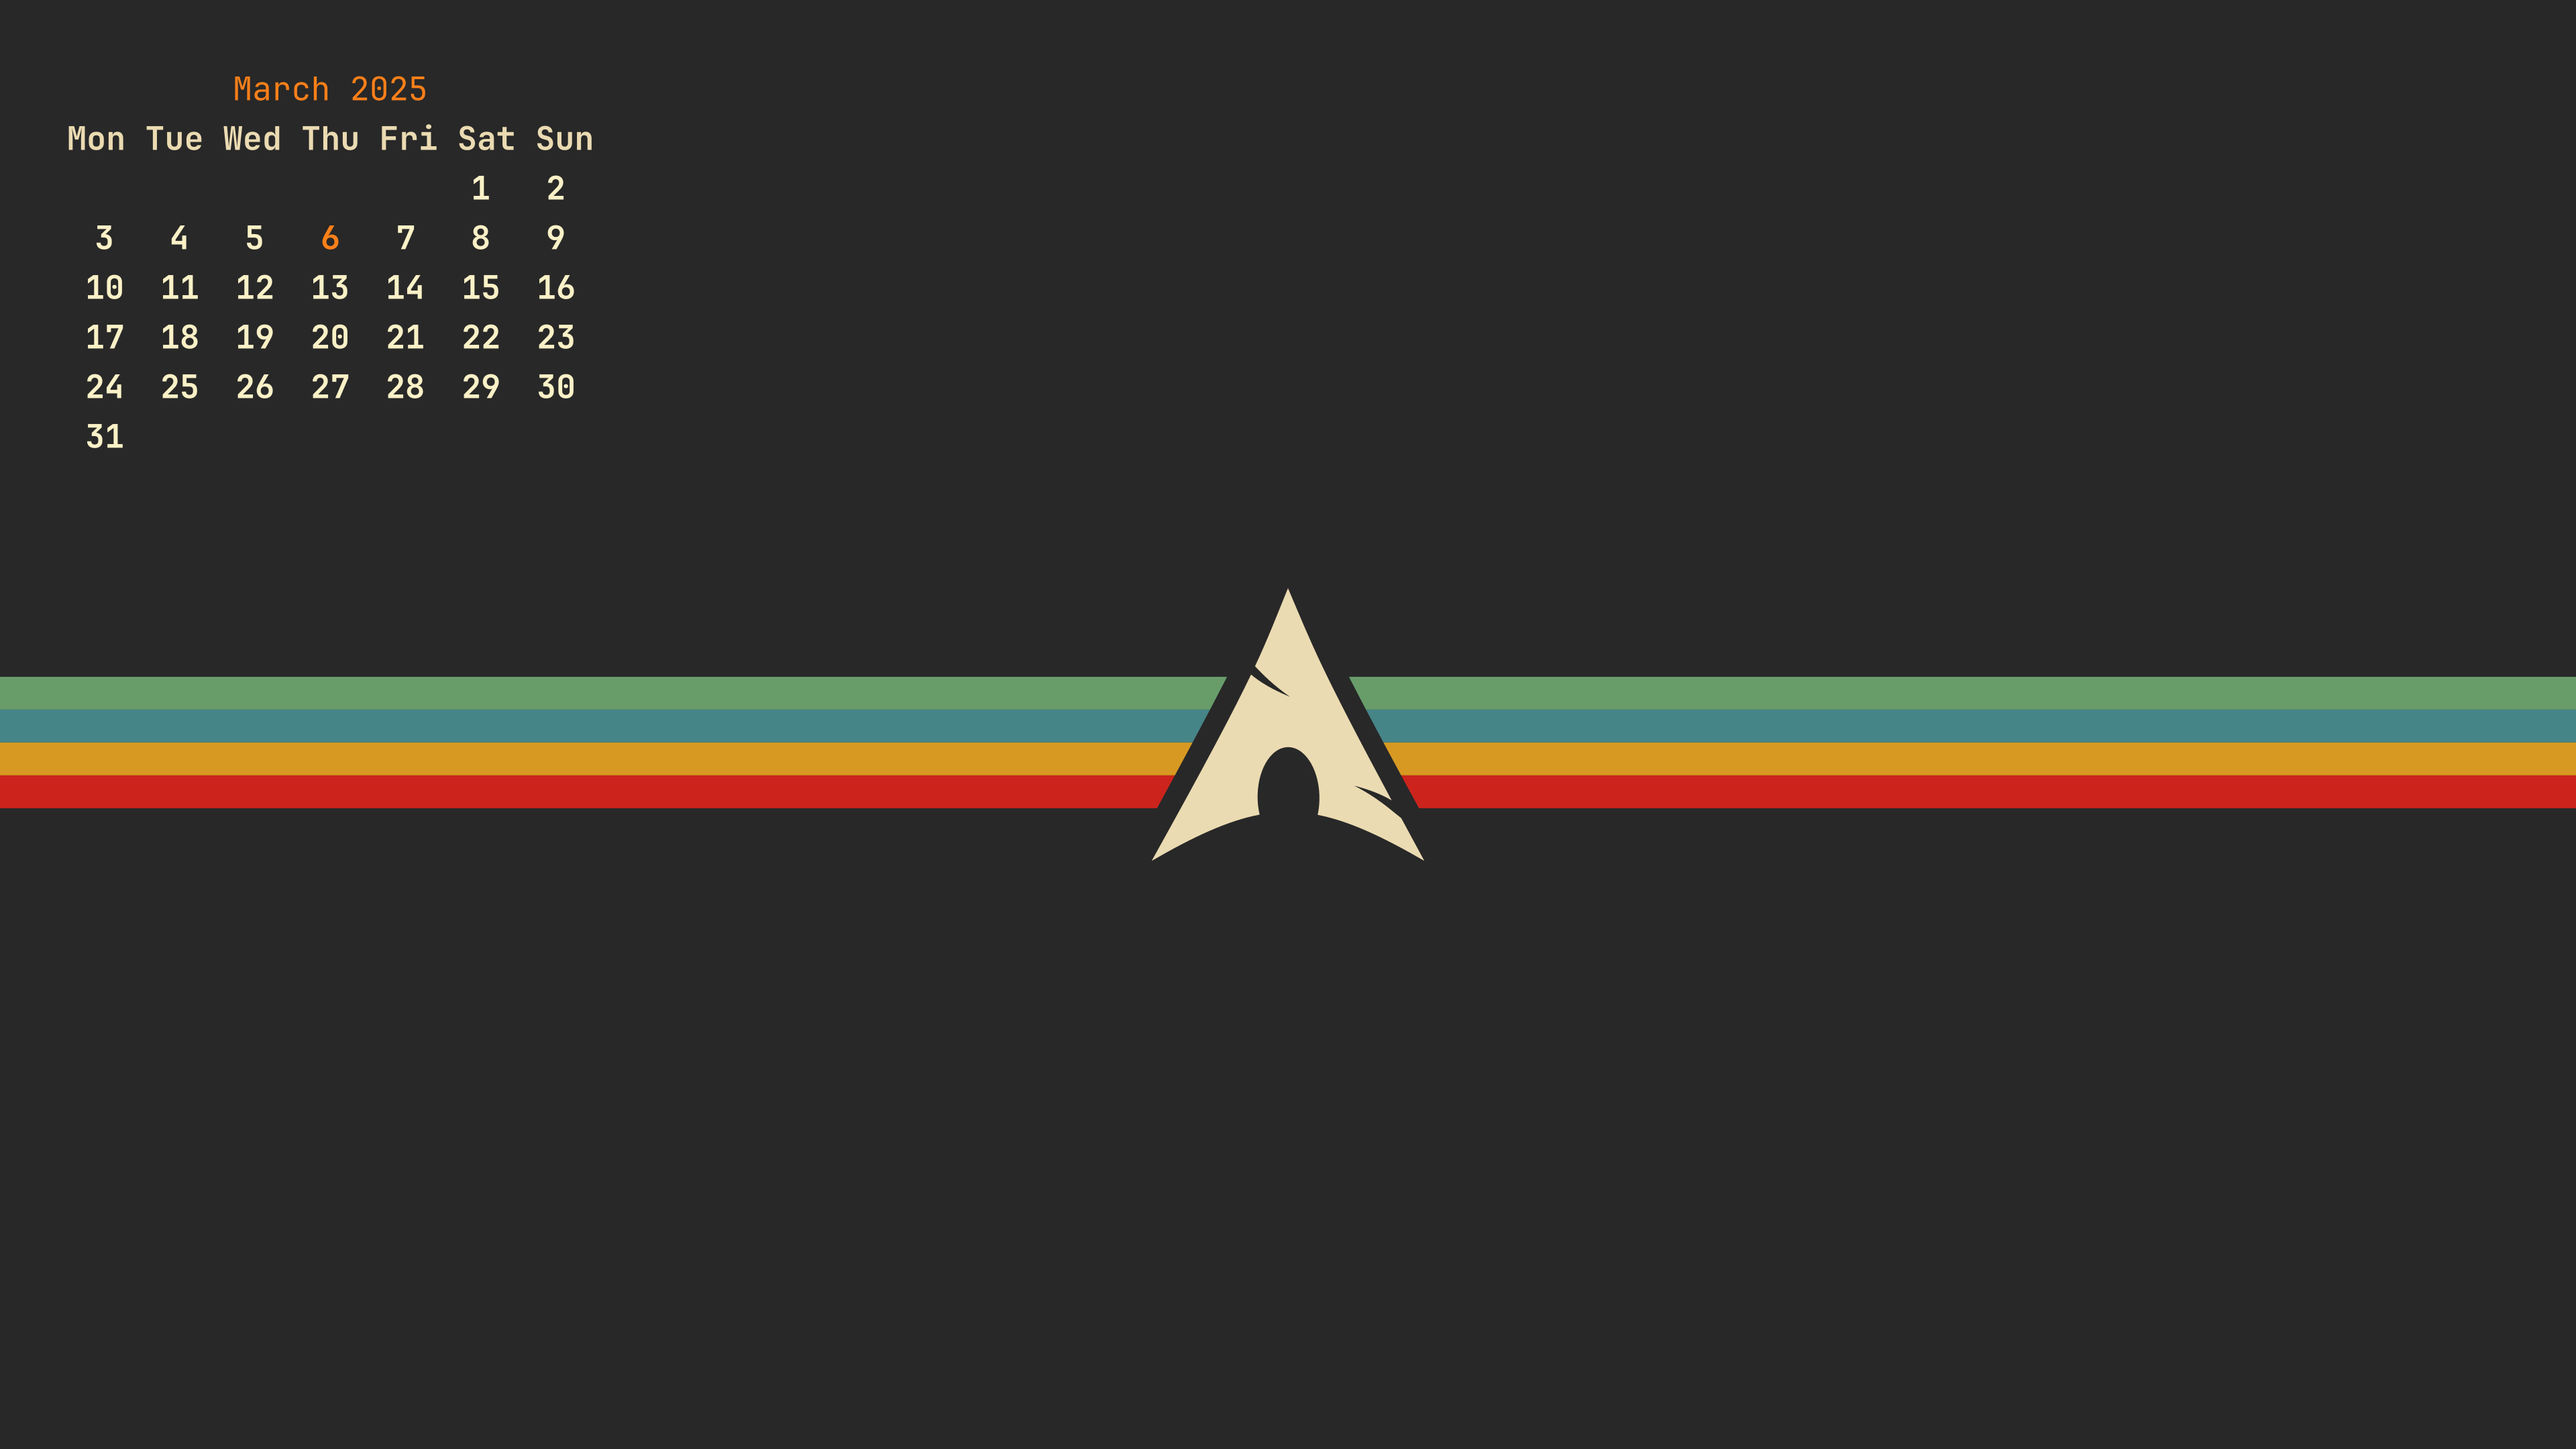
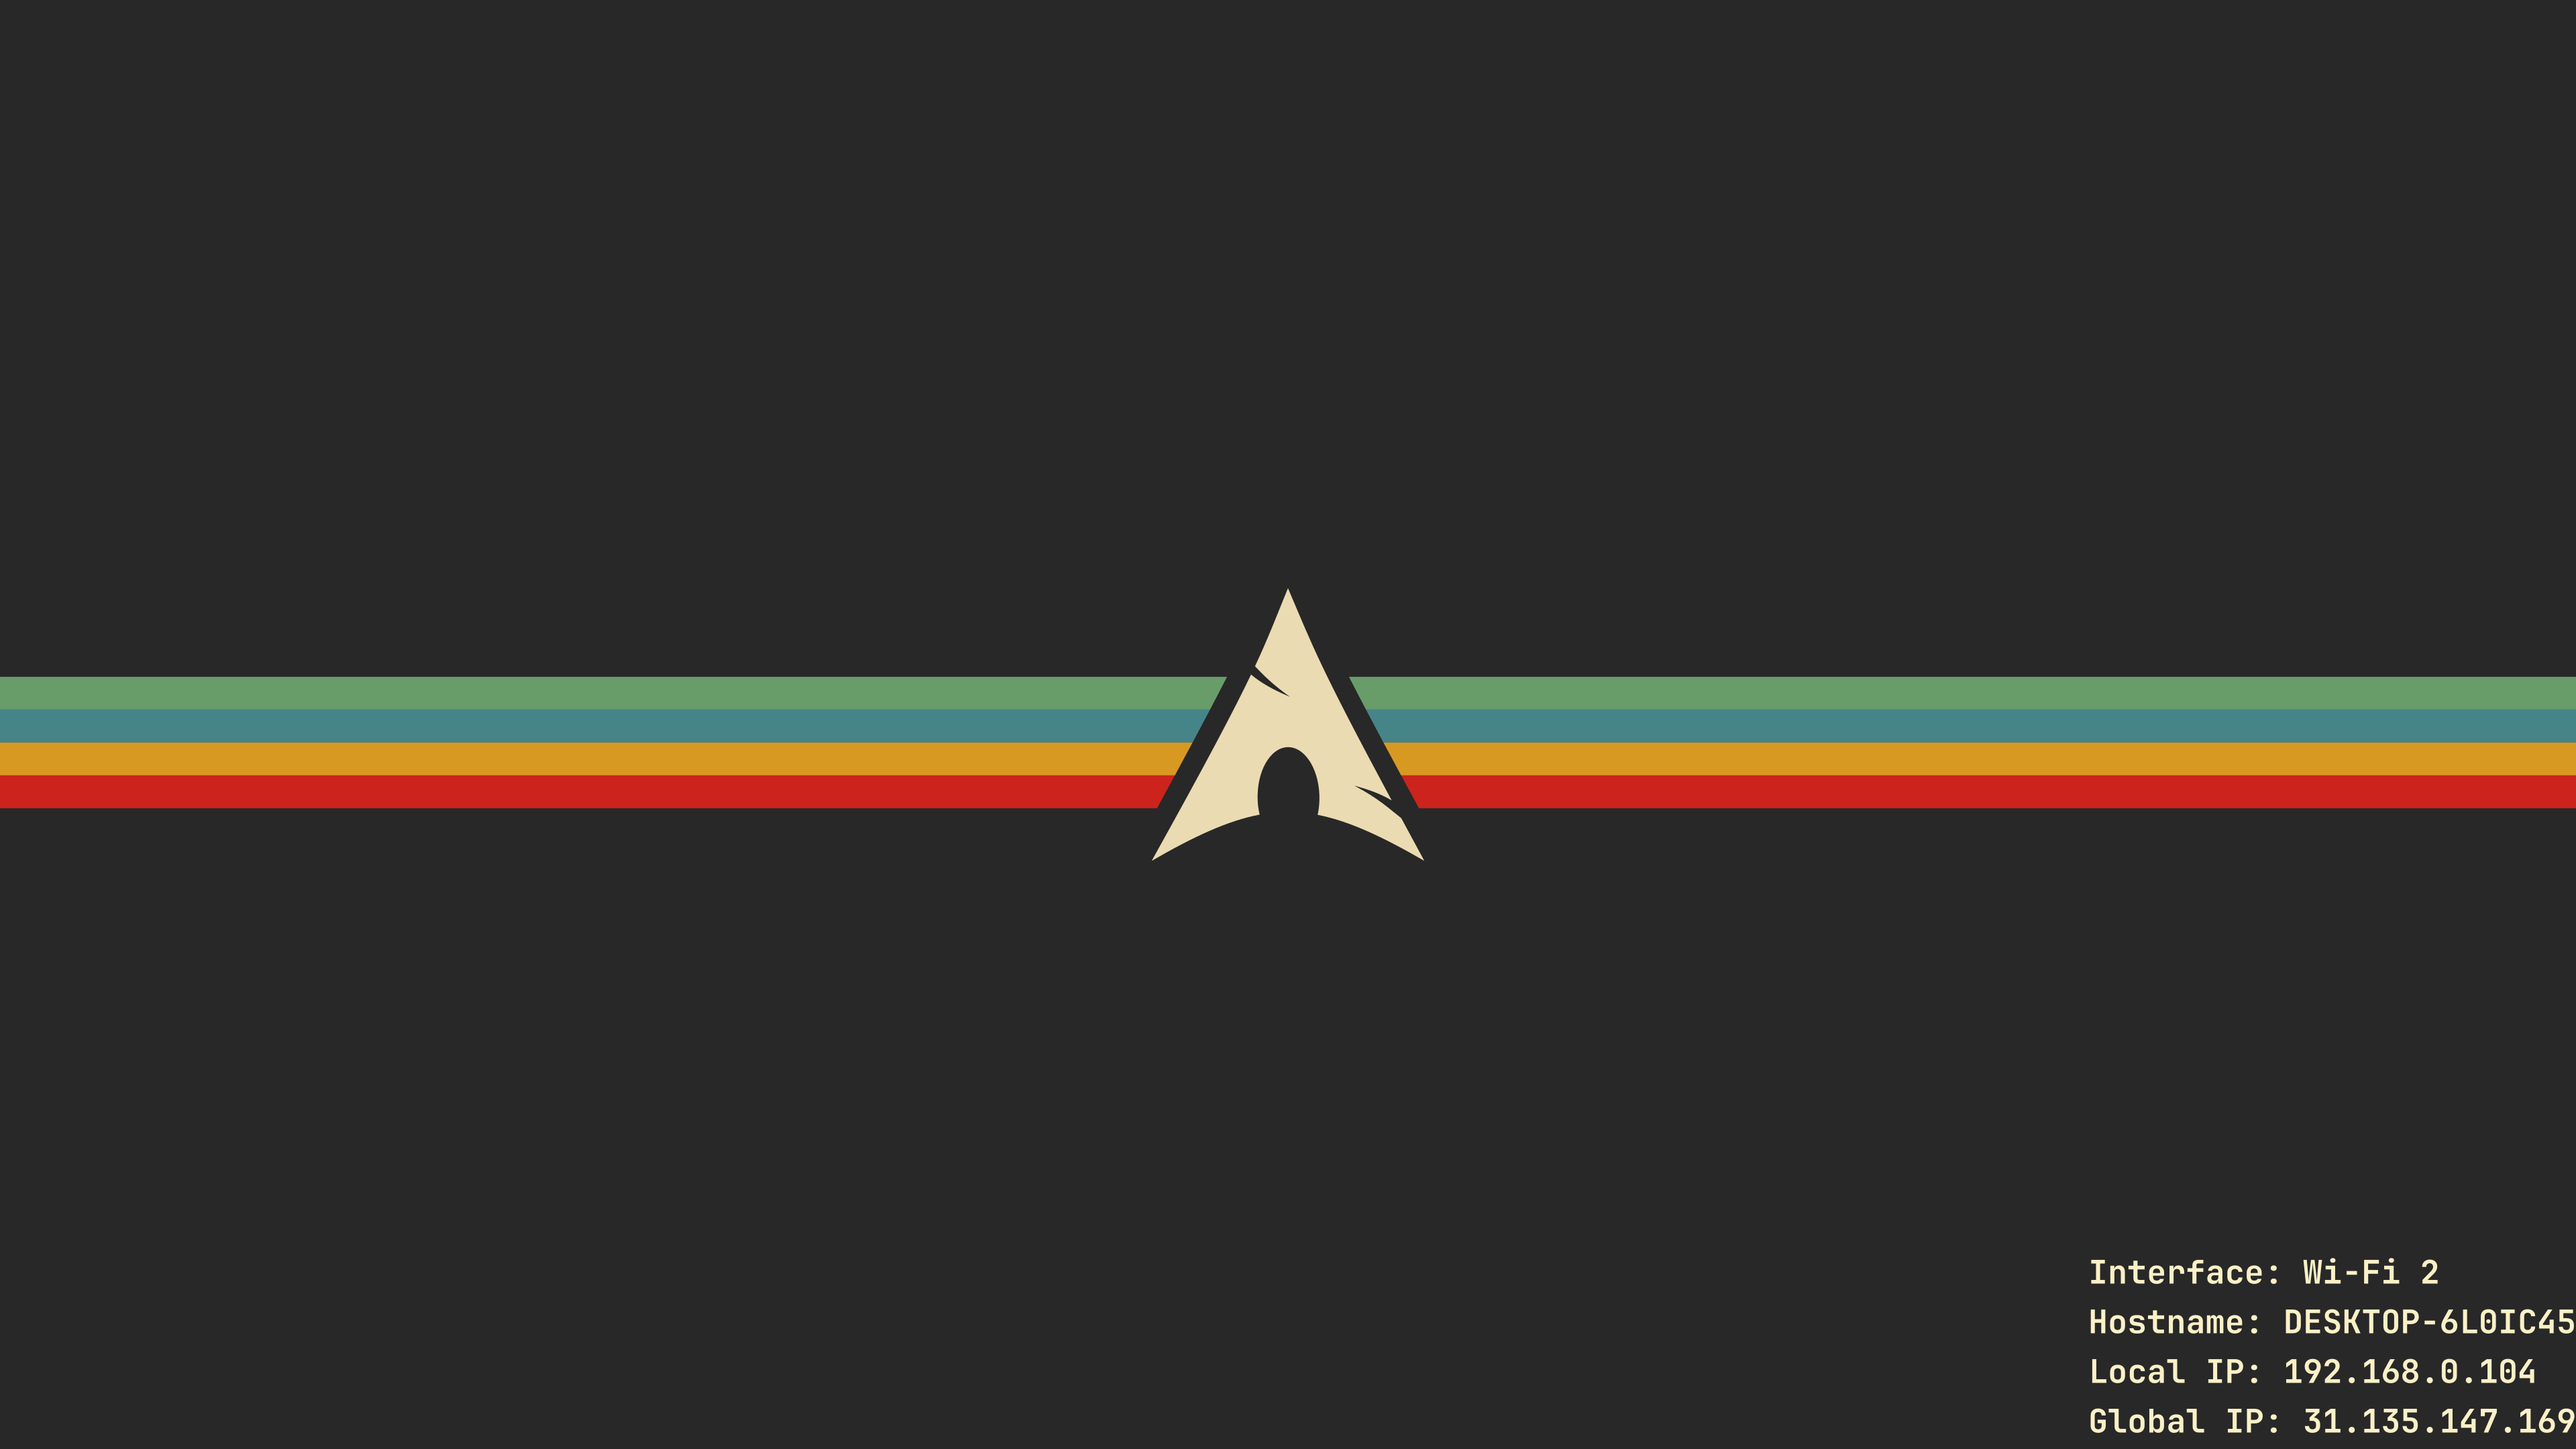
net_working

Changed region(s): [[0.8125, 0.8685, 1.0, 0.9926], [0.0312, 0.1861, 0.2188, 0.3102], [0.0312, 0.062, 0.2188, 0.1241]]

diff --git a/src/lib.rs b/src/lib.rs
@@ -4,6 +4,7 @@ use ab_glyph::{Font, FontRef, PxScale, ScaleFont};
 use chrono::{Datelike, Local};
 use image::{open, Rgb};
 use imageproc::drawing::draw_text_mut;
+use network_interface::{NetworkInterface, NetworkInterfaceConfig};
 use theme::Theme;
 use time::util::days_in_month;
 use time::OffsetDateTime;
@@ -76,8 +77,8 @@ pub fn draw_calendar(mut conf: Config) {
         bold_height + (regular_height * (numbers_lines + 1.0)) + 10.0 * (numbers_lines + 1.0);
 
     if conf.center {
-        conf.start_x = (img_width as f32 - week_width) / 2.0;
-        conf.start_y = (img_height as f32 - widget_height) / 2.0;
+        conf.start_x = get_coord_centered(img_width as f32, week_width, 0.0);
+        conf.start_y = get_coord_centered(img_height as f32, widget_height, 0.0);
     }
     if conf.right {
         conf.start_x = img_width as f32 - week_width - conf.start_x;
@@ -87,7 +88,7 @@ pub fn draw_calendar(mut conf: Config) {
     }
 
     //calculate center related to days of week string
-    offset_x = get_x_centered(week_width, title_width, conf.start_x);
+    offset_x = get_coord_centered(week_width, title_width, conf.start_x);
 
     //draw title
     draw_text_mut(
@@ -132,7 +133,7 @@ pub fn draw_calendar(mut conf: Config) {
                     color = conf.theme.color_text;
                 }
                 let num_width = text_width(&font_regular, scale, &day.to_string());
-                offset_x = get_x_centered(cell_width, num_width, offset_x);
+                offset_x = get_coord_centered(cell_width, num_width, offset_x);
 
                 draw_text_mut(
                     &mut img,
@@ -165,7 +166,7 @@ pub fn draw_calendar(mut conf: Config) {
             } else {
                 color = conf.theme.color_text;
             }
-            offset_x = get_x_centered(cell_width, num_width, offset_x);
+            offset_x = get_coord_centered(cell_width, num_width, offset_x);
             draw_text_mut(
                 &mut img,
                 Rgb(color),
@@ -180,10 +181,98 @@ pub fn draw_calendar(mut conf: Config) {
         if days_iter.is_empty() {
             break;
         }
-        offset_y = offset_y + conf.font_size + 10.0;
+        offset_y += conf.font_size + 10.0;
         offset_x = conf.start_x;
     }
 
+    if conf.file_out.is_empty() {
+        img.save(conf.file_in).expect("Error while saving file");
+    } else {
+        let path = Path::new(conf.file_in).parent().unwrap().display();
+        img.save(format!("{}\\{}", path, conf.file_out))
+            .expect("Error while saving file");
+    }
+}
+
+pub fn draw_inet(mut conf: Config, iface_name: String) {
+    //open image and font
+    let mut img = open(conf.file_in).expect("Not an image").into_rgb8();
+    let font_regular = FontRef::try_from_slice(FONT_BYTES_REGULAR as &[u8]).expect("Invalid font");
+    let font_bold = FontRef::try_from_slice(FONT_BYTES_BOLD as &[u8]).expect("Invalid font");
+
+    //normalize font
+    let (img_width, img_height) = img.dimensions();
+    let scale_factor = (img_width * img_height) / (1920 * 1080);
+
+    conf.font_size *= (scale_factor as f32).sqrt();
+    let scale = PxScale::from(conf.font_size);
+
+    //info for widget
+    let hostname_binding = hostname::get().unwrap_or("".into());
+    let hostname = hostname_binding.to_str().unwrap();
+    //let hostname = "CHLEN";
+    //let local_ip = local_ip().unwrap().to_string();
+
+    let interface_binding = NetworkInterface::show()
+        .unwrap()
+        .into_iter()
+        .find(|iface| iface.name == iface_name)
+        .unwrap();
+    let interface_name = interface_binding.name.clone();
+    let local_ip = interface_binding.addr[1].ip().to_string();
+
+    let global_ip;
+    match ureq::get("https://api64.ipify.org").call() {
+        Ok(mut res) => global_ip = res.body_mut().read_to_string().unwrap(),
+        Err(_) => global_ip = "".to_string(),
+    }
+
+    let hostname_text = format!("Hostname: {}", hostname);
+    let local_ip_text = format!("Local IP: {}", local_ip);
+    let interface_name_text = format!("Interface: {}", interface_name);
+    let global_ip_text = format!("Global IP: {}", global_ip);
+    let texts = [
+        interface_name_text,
+        hostname_text,
+        local_ip_text,
+        global_ip_text,
+    ];
+
+    //positioning
+    let widget_width = texts
+        .iter()
+        .map(|line| text_width(&font_regular, scale, line) as u32)
+        .max()
+        .unwrap() as f32;
+    let regular_height = text_height(&font_regular, scale);
+    let widget_height = regular_height * 4.0 + 10.0 * 4.0;
+
+    if conf.center {
+        conf.start_x = get_coord_centered(img_width as f32, widget_width, 0.0);
+        conf.start_y = get_coord_centered(img_height as f32, widget_height, 0.0);
+    }
+    if conf.bottom {
+        conf.start_y = img_height as f32 - widget_height - conf.start_y;
+    }
+    if conf.right {
+        conf.start_x = img_width as f32 - widget_width - conf.start_x;
+    }
+
+    //draw widget
+    for text in texts {
+        draw_text_mut(
+            &mut img,
+            Rgb(conf.theme.color_text),
+            conf.start_x as i32,
+            conf.start_y as i32,
+            scale,
+            &font_bold,
+            &text,
+        );
+        conf.start_y += conf.font_size + 10.0;
+    }
+
+    //save file
     if conf.file_out.is_empty() {
         img.save(conf.file_in).expect("Error while saving file");
     } else {
@@ -208,6 +297,6 @@ fn text_height(font: &FontRef, scale: PxScale) -> f32 {
     scaled_font.height()
 }
 
-fn get_x_centered(w_master: f32, w_slave: f32, master_start_x: f32) -> f32 {
+fn get_coord_centered(w_master: f32, w_slave: f32, master_start_x: f32) -> f32 {
     (w_master - w_slave) / 2.0 + master_start_x
 }

diff --git a/src/main.rs b/src/main.rs
@@ -3,7 +3,7 @@ extern crate clap;
 use std::{fs, path::Path};
 
 use clap::{App, Arg};
-use smartwp::{draw_calendar, theme::Theme, Config};
+use smartwp::{draw_calendar, draw_inet, theme::Theme, Config};
 
 fn main() {
     let matches = App::new("SmartWallpaper")
@@ -96,10 +96,10 @@ fn main() {
             Arg::with_name("net")
                 .long("net")
                 .required(false)
-                .takes_value(false)
+                .takes_value(true)
                 .conflicts_with("calendar")
                 .conflicts_with("disk")
-                .help("Draw network widget"),
+                .help("Draw network widget (takes interface name)"),
         )
         .arg(
             Arg::with_name("disk")
@@ -147,5 +147,7 @@ fn main() {
 
     if matches.is_present("calendar") {
         draw_calendar(conf);
+    } else if matches.is_present("net") {
+        draw_inet(conf, matches.value_of("net").unwrap().to_string());
     }
 }

diff --git a/src/theme.rs b/src/theme.rs
@@ -28,7 +28,7 @@ impl Theme {
             }
             "monochrome-light" => {
                 color_text = [89, 89, 89]; // #595959
-                color_highlighted = [52, 52, 52]; // #343434
+                color_highlighted = [25, 25, 25]; // #191919
                 color_headline = [77, 77, 77]; // #4d4d4d
             }
             _ => panic!("No such theme!"),
